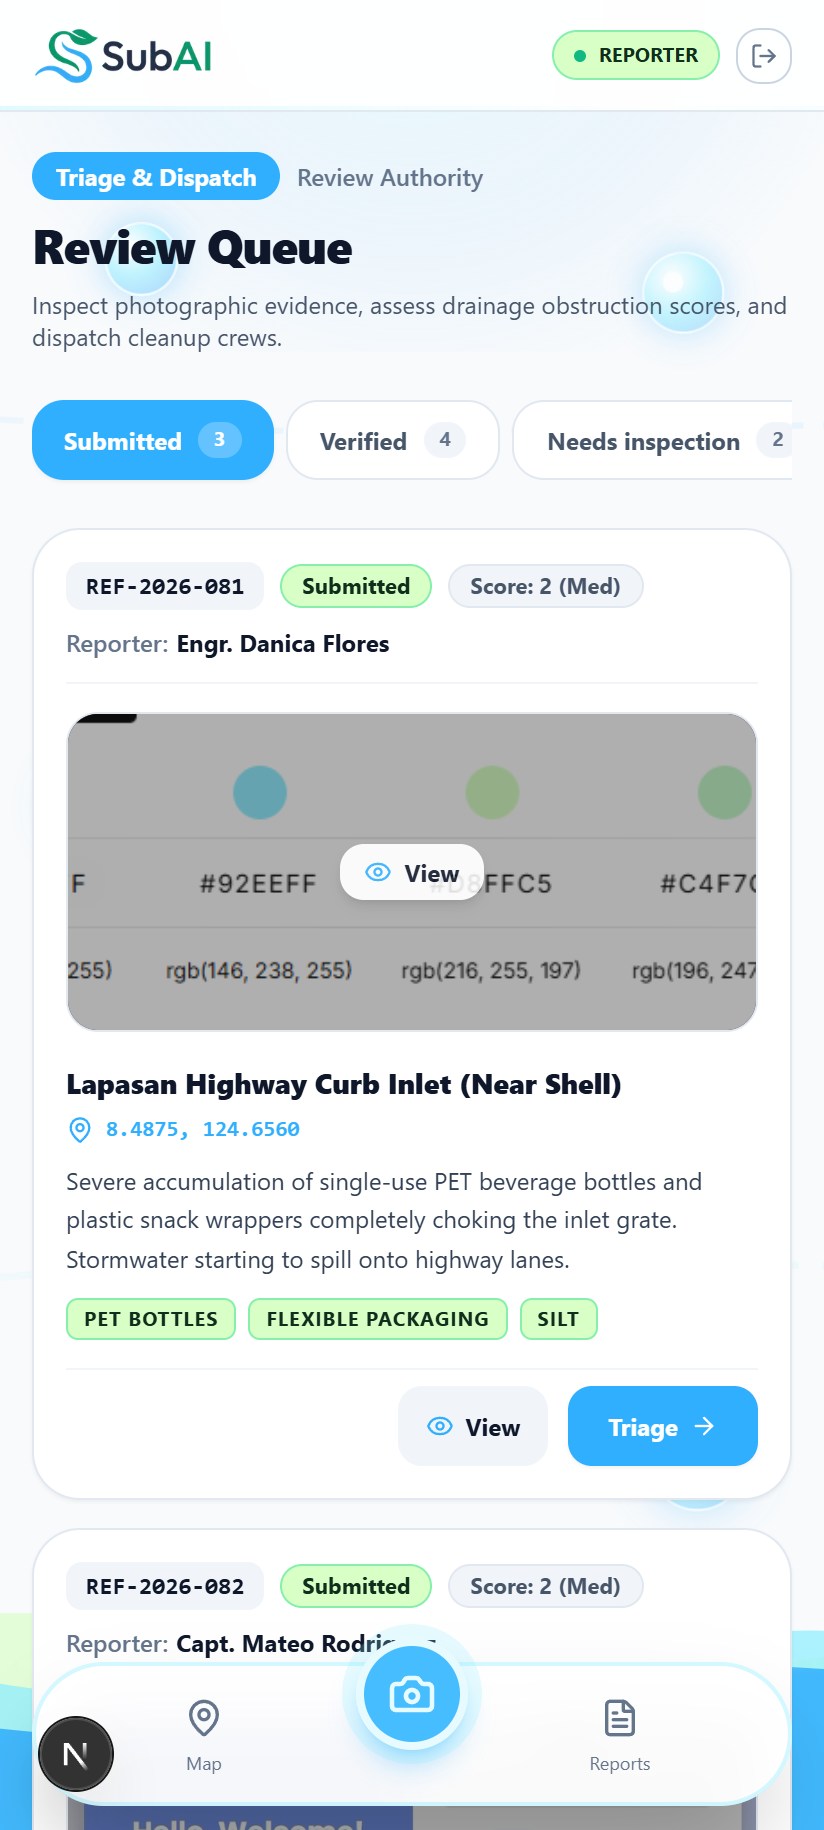
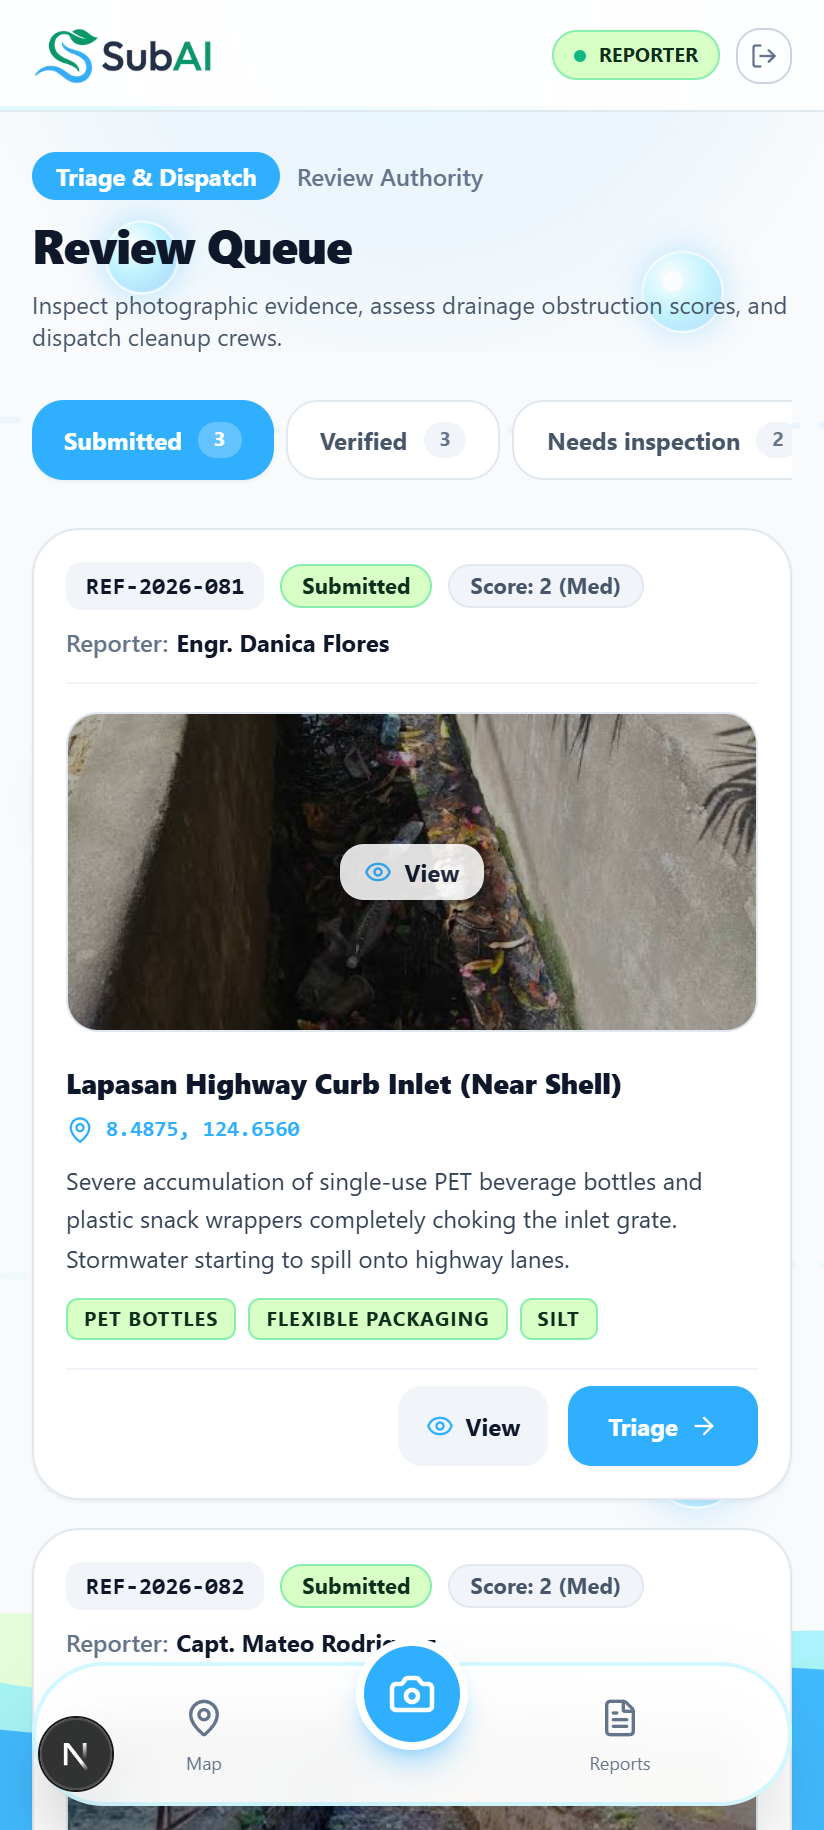
feat(screenshots): recapture all mobile screens using real image test photos and clean data

Changed region(s): [[0.0607, 0.3738, 0.9405, 0.5607], [0.0607, 0.9656, 0.9405, 1.0]]

diff --git a/scripts/recapture_all_mobile_with_image_test.js b/scripts/recapture_all_mobile_with_image_test.js
@@ -1,0 +1,288 @@
+const puppeteer = require('puppeteer-core');
+const path = require('path');
+const fs = require('fs');
+const { execSync } = require('child_process');
+
+function findEdgeExecutable() {
+  const edgeCoreDir = 'C:\\Program Files (x86)\\Microsoft\\EdgeCore';
+  if (fs.existsSync(edgeCoreDir)) {
+    const subdirs = fs.readdirSync(edgeCoreDir);
+    for (const subdir of subdirs) {
+      const exePath = path.join(edgeCoreDir, subdir, 'msedge.exe');
+      if (fs.existsSync(exePath)) return exePath;
+    }
+  }
+  const standardEdge = 'C:\\Program Files (x86)\\Microsoft\\Edge\\Application\\msedge.exe';
+  if (fs.existsSync(standardEdge)) return standardEdge;
+  return null;
+}
+
+const wait = (ms) => new Promise((resolve) => setTimeout(resolve, ms));
+
+async function main() {
+  console.log('=== Step 1: Seeding Demo Data with Real [image test] Photos ===');
+  execSync('node scripts/seed_demo_data.js', { stdio: 'inherit' });
+
+  const edgePath = findEdgeExecutable();
+  console.log('\n=== Step 2: Launching Browser ===', edgePath);
+
+  const mobileDir = path.resolve(__dirname, '..', 'presentation_screenshots', 'mobile');
+  const artifactMobileDir = 'C:\\Users\\BeboyPC\\.gemini\\antigravity\\brain\\7fd7c8c5-66d2-4866-b1a3-baad6f2c4e71\\mobile';
+  [mobileDir, artifactMobileDir].forEach((d) => {
+    if (!fs.existsSync(d)) fs.mkdirSync(d, { recursive: true });
+  });
+
+  const browser = await puppeteer.launch({
+    executablePath: edgePath,
+    headless: 'new',
+    args: ['--no-sandbox', '--disable-setuid-sandbox'],
+  });
+
+  const page = await browser.newPage();
+  await page.setViewport({
+    width: 412,
+    height: 915,
+    isMobile: true,
+    hasTouch: true,
+    deviceScaleFactor: 2,
+  });
+
+  await page.evaluateOnNewDocument(() => {
+    localStorage.setItem('subai_pwa_dismissed_at', '9999999999999');
+    localStorage.setItem('subai_pwa_suppress', 'true');
+  });
+
+  const cleanPwa = async () => {
+    await page.evaluate(() => {
+      document.querySelectorAll('[data-pwa-banner], .pwa-install-banner').forEach((el) => el.remove());
+      const prompts = document.querySelectorAll('*');
+      for (const el of prompts) {
+        if (el.textContent && el.textContent.includes('Install SubAI Application') && el.parentElement) {
+          let container = el;
+          while (container && !container.classList.contains('fixed')) {
+            container = container.parentElement;
+          }
+          if (container) container.remove();
+        }
+      }
+    });
+  };
+
+  const saveScreen = async (filename) => {
+    const p1 = path.join(mobileDir, filename);
+    const p2 = path.join(artifactMobileDir, filename);
+    await page.screenshot({ path: p1 });
+    fs.copyFileSync(p1, p2);
+    console.log(`  [Saved] ${filename}`);
+  };
+
+  console.log('\n=== Step 3: Capturing Mobile Screenshots ===');
+
+  // 1. Landing Home
+  console.log('-> 01_landing_home.png');
+  await page.goto('http://localhost:3000', { waitUntil: 'networkidle2', timeout: 30000 });
+  await wait(1200);
+  await cleanPwa();
+  await saveScreen('01_landing_home.png');
+
+  // 1b. Portal Login (with prefilled credentials)
+  console.log('-> 01b_portal_login.png');
+  try {
+    const emailInput = await page.$('input[name="email"], input[type="text"], input[placeholder*="email" i], input[placeholder*="username" i]');
+    if (emailInput) await emailInput.type('admin', { delay: 40 });
+    const passwordInput = await page.$('input[type="password"]');
+    if (passwordInput) await passwordInput.type('subai123', { delay: 40 });
+  } catch (e) {}
+  await wait(600);
+  await cleanPwa();
+  await saveScreen('01b_portal_login.png');
+
+  // 2. Report Citizen (Clean Form)
+  console.log('-> 02_report_citizen.png');
+  await page.goto('http://localhost:3000/report', { waitUntil: 'networkidle2', timeout: 30000 });
+  await wait(1200);
+  await cleanPwa();
+  await saveScreen('02_report_citizen.png');
+
+  // 2b. Report with AI Vision Analysis (image test upload)
+  console.log('-> 02b_report_ai_analysis.png (uploading image test/images (3).jpg)');
+  const testImg = path.resolve(__dirname, '..', 'image test', 'images (3).jpg');
+  const fileInput = await page.$('input[type="file"]:not([capture])');
+  if (fileInput) {
+    await fileInput.uploadFile(testImg);
+    try {
+      await page.waitForFunction(
+        () => document.body.innerText.includes('AI Vision Analysis') || document.body.innerText.includes('Culvert') || document.body.innerText.includes('PET'),
+        { timeout: 15000 }
+      );
+    } catch (e) {
+      await wait(5000);
+    }
+    await wait(1500);
+    await cleanPwa();
+    await saveScreen('02b_report_ai_analysis.png');
+  }
+
+  // 3. GIS Map
+  console.log('-> 03_gis_map.png');
+  await page.goto('http://localhost:3000/map', { waitUntil: 'networkidle2', timeout: 30000 });
+  await wait(2500); // allow leaflet tiles & pins to render
+  await cleanPwa();
+  await saveScreen('03_gis_map.png');
+
+  // 4. Operations Dashboard
+  console.log('-> 04_operations_dashboard.png');
+  await page.goto('http://localhost:3000/dashboard', { waitUntil: 'networkidle2', timeout: 30000 });
+  await wait(1800);
+  await cleanPwa();
+  await saveScreen('04_operations_dashboard.png');
+
+  // 5. Review Queue (Submitted Tab) - Uses real image test photos!
+  console.log('-> 05_review_queue_submitted.png');
+  await page.goto('http://localhost:3000/review', { waitUntil: 'networkidle2', timeout: 30000 });
+  await wait(1500);
+  const reviewButtons = await page.$$('button');
+  for (const btn of reviewButtons) {
+    const text = await page.evaluate((el) => el.innerText, btn);
+    if (text && text.includes('Submitted')) {
+      await btn.click();
+      break;
+    }
+  }
+  await wait(1200);
+  await cleanPwa();
+  await saveScreen('05_review_queue_submitted.png');
+
+  // 5b. Review Queue (Verified Tab)
+  console.log('-> 05b_review_queue_verified.png');
+  const reviewButtons2 = await page.$$('button');
+  for (const btn of reviewButtons2) {
+    const text = await page.evaluate((el) => el.innerText, btn);
+    if (text && text.includes('Verified')) {
+      await btn.click();
+      break;
+    }
+  }
+  await wait(1200);
+  await cleanPwa();
+  await saveScreen('05b_review_queue_verified.png');
+
+  // 6. Review Triage Modal
+  console.log('-> 06_review_triage_modal.png');
+  // Click first triage button
+  const triageBtns = await page.$$('button');
+  for (const btn of triageBtns) {
+    const text = await page.evaluate((el) => el.innerText, btn);
+    if (text && text.includes('Triage')) {
+      await btn.click();
+      break;
+    }
+  }
+  await wait(1200);
+  await cleanPwa();
+  await saveScreen('06_review_triage_modal.png');
+
+  // 7. Review Handovers (Step 6)
+  console.log('-> 07_review_handovers_step6.png');
+  await page.goto('http://localhost:3000/review', { waitUntil: 'networkidle2', timeout: 30000 });
+  await wait(1500);
+  const hoBtns = await page.$$('button');
+  for (const btn of hoBtns) {
+    const text = await page.evaluate((el) => el.innerText, btn);
+    if (text && text.includes('Handovers')) {
+      await btn.click();
+      break;
+    }
+  }
+  await wait(1200);
+  await cleanPwa();
+  await saveScreen('07_review_handovers_step6.png');
+
+  // 8. Collector Tasks (Active)
+  console.log('-> 08_collector_tasks_active.png');
+  await page.goto('http://localhost:3000/tasks', { waitUntil: 'networkidle2', timeout: 30000 });
+  await wait(1500);
+  await cleanPwa();
+  await saveScreen('08_collector_tasks_active.png');
+
+  // 8b. Collector Tasks (Completed)
+  console.log('-> 08b_collector_tasks_completed.png');
+  const taskTabBtns = await page.$$('button');
+  for (const btn of taskTabBtns) {
+    const text = await page.evaluate((el) => el.innerText, btn);
+    if (text && text.includes('Completed')) {
+      await btn.click();
+      break;
+    }
+  }
+  await wait(1200);
+  await cleanPwa();
+  await saveScreen('08b_collector_tasks_completed.png');
+
+  // 9. Collector Weigh Modal
+  console.log('-> 09_collector_weigh_modal.png');
+  await page.goto('http://localhost:3000/tasks', { waitUntil: 'networkidle2', timeout: 30000 });
+  await wait(1500);
+  const weighBtns = await page.$$('button');
+  for (const btn of weighBtns) {
+    const text = await page.evaluate((el) => el.innerText, btn);
+    if (text && (text.includes('Weigh & Evidence') || text.includes('Weigh'))) {
+      await btn.click();
+      break;
+    }
+  }
+  await wait(1200);
+  await cleanPwa();
+  await saveScreen('09_collector_weigh_modal.png');
+
+  // 10. Collector Handover Modal
+  console.log('-> 10_collector_handover_modal.png');
+  await page.goto('http://localhost:3000/tasks', { waitUntil: 'networkidle2', timeout: 30000 });
+  await wait(1500);
+  const taskTabBtns2 = await page.$$('button');
+  for (const btn of taskTabBtns2) {
+    const text = await page.evaluate((el) => el.innerText, btn);
+    if (text && text.includes('Completed')) {
+      await btn.click();
+      break;
+    }
+  }
+  await wait(1000);
+  const allBtns = await page.$$('button');
+  for (const btn of allBtns) {
+    const text = await page.evaluate((el) => el.innerText, btn);
+    if (text && text.includes('Hand Over')) {
+      await btn.click();
+      break;
+    }
+  }
+  await wait(1200);
+  await cleanPwa();
+  await saveScreen('10_collector_handover_modal.png');
+
+  // 11. Rain Bank
+  console.log('-> 11_rain_bank.png');
+  await page.goto('http://localhost:3000/rain-bank', { waitUntil: 'networkidle2', timeout: 30000 });
+  await wait(1500);
+  await cleanPwa();
+  await saveScreen('11_rain_bank.png');
+
+  // 12. Admin Roles
+  console.log('-> 12_admin_roles.png');
+  await page.goto('http://localhost:3000/admin', { waitUntil: 'networkidle2', timeout: 30000 });
+  await wait(1500);
+  await cleanPwa();
+  await saveScreen('12_admin_roles.png');
+
+  await browser.close();
+  console.log('\nAll Mobile Screenshots Successfully Recaptured!');
+
+  console.log('\n=== Step 4: Erasing All Operational Data from Database ===');
+  execSync('node scripts/reset_database_for_demo.js', { stdio: 'inherit' });
+  console.log('\nDatabase completely cleaned and ready for live demo!');
+}
+
+main().catch((err) => {
+  console.error('Fatal error in recapture process:', err);
+  process.exit(1);
+});
